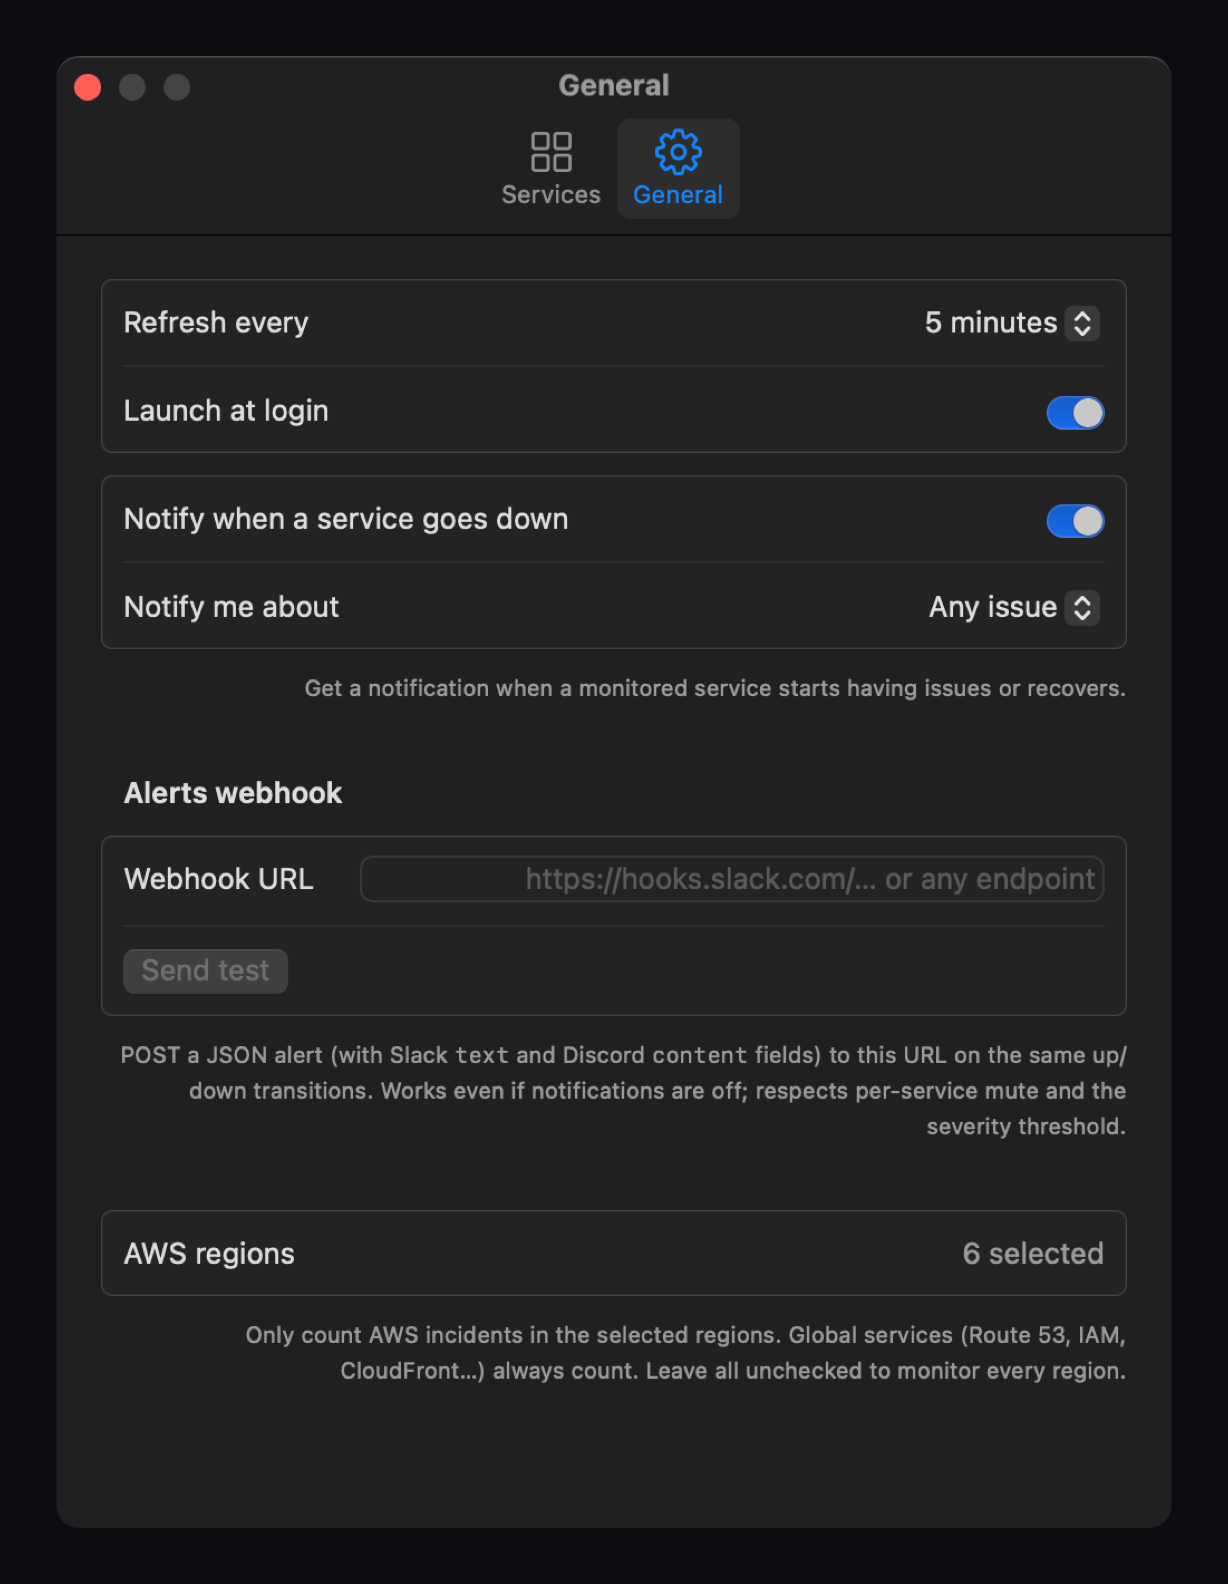
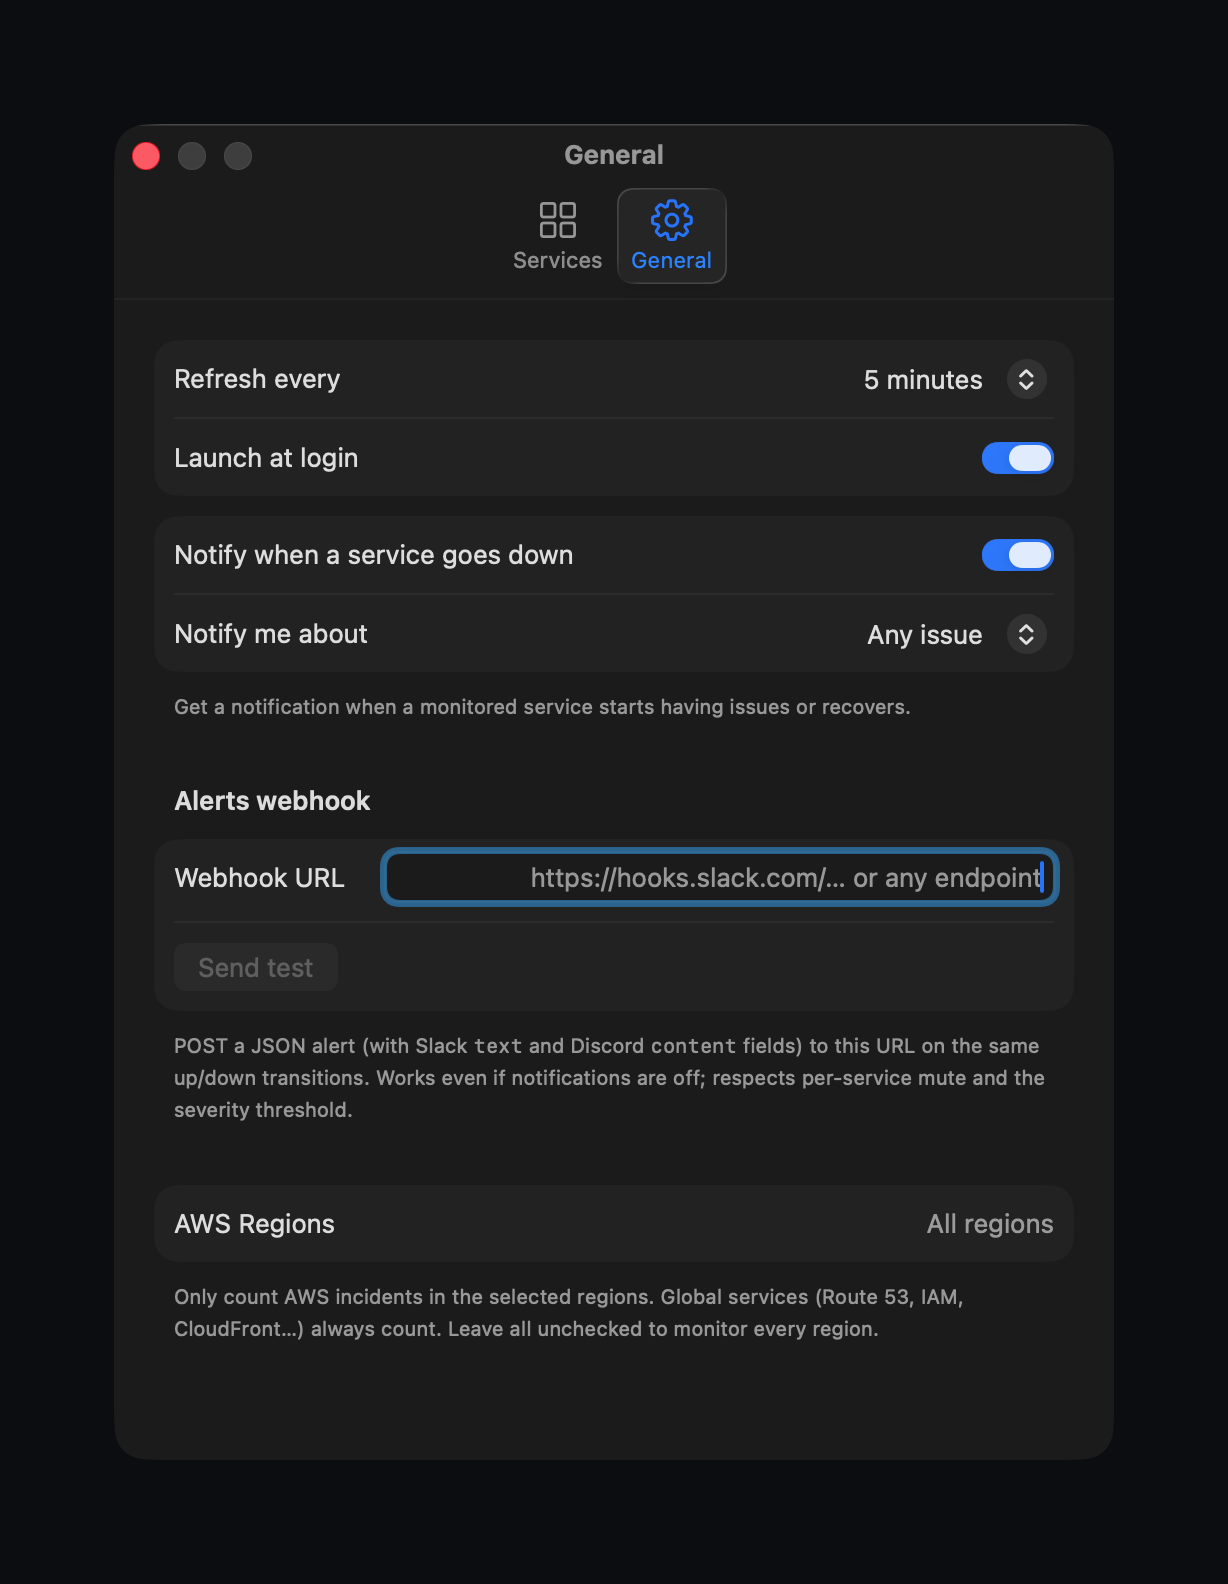
README: retake Settings screenshots with the new import UI
The Services shot predated the Add from a Codebase section. Retaken
from the live app via two launch hooks that make the capture scriptable
without accessibility rights: DOWNBAR_OPEN_SETTINGS=1 opens Settings at
launch (focused), DOWNBAR_SETTINGS_TAB=general picks the tab.

diff --git a/Sources/Downbar/DownbarApp.swift b/Sources/Downbar/DownbarApp.swift
@@ -16,7 +16,7 @@ struct DownbarApp: App {
             MenuContent(monitor: monitor)
                 .task { presentOnboardingIfNeeded() }
         } label: {
-            Image(nsImage: MenuBarIconRenderer.nsImage(for: monitor.aggregate))
+            MenuBarLabel(monitor: monitor)
         }
         .menuBarExtraStyle(.window)
 
@@ -38,5 +38,30 @@ struct DownbarApp: App {
         UserDefaults.standard.set(true, forKey: Self.onboardedKey)
         openWindow(id: "onboarding")
         NSApp.activate(ignoringOtherApps: true)
+    }
+}
+
+/// The status-item icon. Also hosts the launch hook for screenshot automation:
+/// start the app with `DOWNBAR_OPEN_SETTINGS=1` and Settings opens immediately,
+/// so `scripts/screenshots.sh` doesn't need UI-scripting (accessibility) rights.
+/// The label view is the only view that exists at launch in a MenuBarExtra app,
+/// which is why the hook lives here.
+private struct MenuBarLabel: View {
+    @ObservedObject var monitor: StatusMonitor
+    @Environment(\.openSettings) private var openSettings
+
+    var body: some View {
+        Image(nsImage: MenuBarIconRenderer.nsImage(for: monitor.aggregate))
+            .task {
+                guard ProcessInfo.processInfo.environment["DOWNBAR_OPEN_SETTINGS"] == "1" else { return }
+                openSettings()
+                // Give the Settings scene a beat to create its window, then
+                // bring it to the front — an LSUIElement app isn't frontmost
+                // at launch, so the window would otherwise open unfocused.
+                try? await Task.sleep(nanoseconds: 500_000_000)
+                NSApp.activate(ignoringOtherApps: true)
+                NSApp.windows.first { $0.isVisible && !$0.title.isEmpty }?
+                    .makeKeyAndOrderFront(nil)
+            }
     }
 }

diff --git a/Sources/Downbar/UI/SettingsView.swift b/Sources/Downbar/UI/SettingsView.swift
@@ -7,12 +7,21 @@ import ServiceManagement
 struct SettingsView: View {
     @ObservedObject var monitor: StatusMonitor
 
+    private enum Tab { case services, general }
+
+    /// Selectable so the screenshot hook can open straight to a given tab
+    /// (`DOWNBAR_SETTINGS_TAB=general`); defaults to Services otherwise.
+    @State private var tab: Tab =
+        ProcessInfo.processInfo.environment["DOWNBAR_SETTINGS_TAB"] == "general" ? .general : .services
+
     var body: some View {
-        TabView {
+        TabView(selection: $tab) {
             ServicesTab(monitor: monitor)
                 .tabItem { Label("Services", systemImage: "square.grid.2x2") }
+                .tag(Tab.services)
             GeneralTab(monitor: monitor)
                 .tabItem { Label("General", systemImage: "gearshape") }
+                .tag(Tab.general)
         }
         .frame(width: 500, height: 580)
     }
